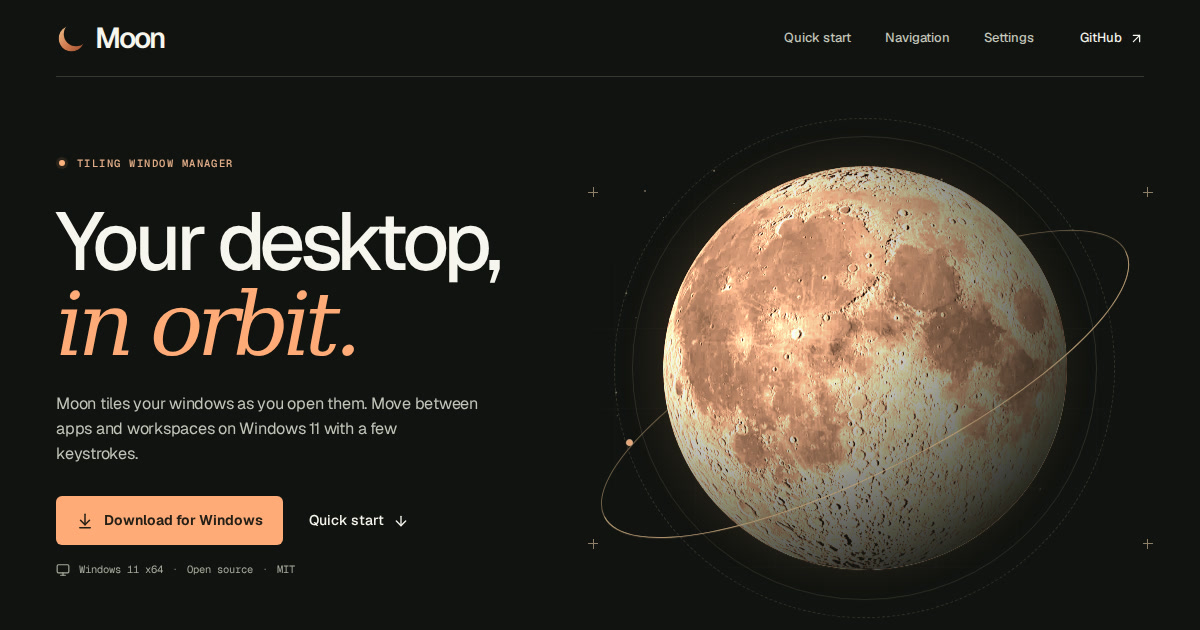
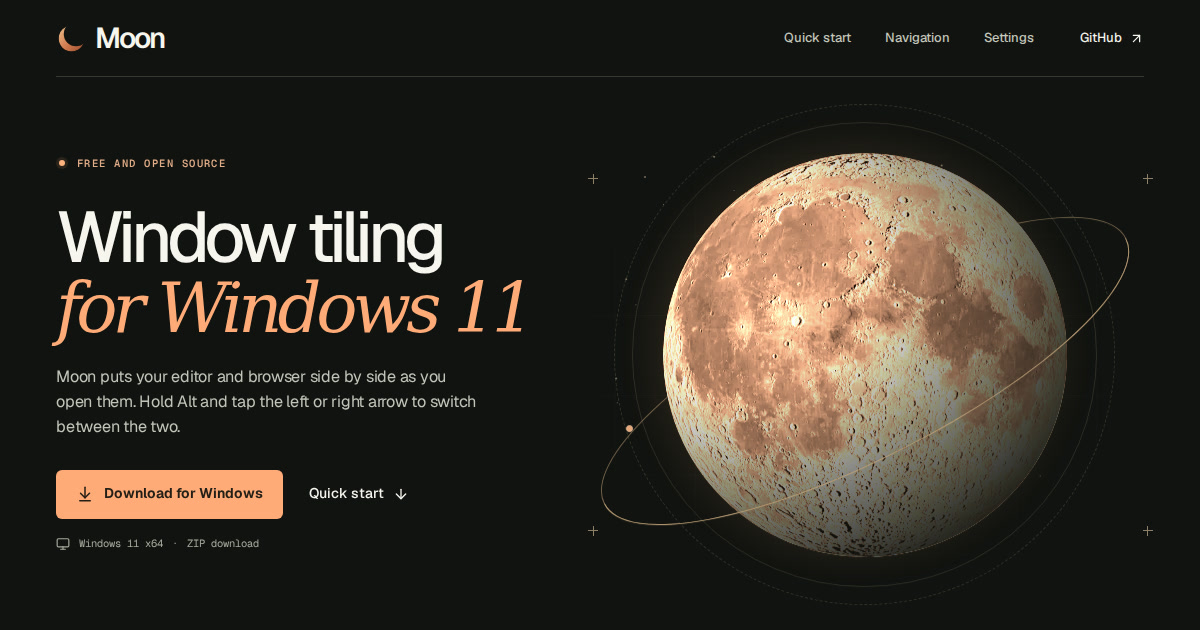
Explain Moon in the language of an everyday Windows desktop (#2)

diff --git a/apps/website/app/page.tsx b/apps/website/app/page.tsx
@@ -39,8 +39,7 @@ const screens = [
     name: "Overview",
     file: "/screens/overview.webp",
     icon: LayoutGrid,
-    description:
-      "Find an open window across workspaces and bring it into focus.",
+    description: "Pick a window from the list to jump to its workspace.",
     alt: "Moon Overview showing Code and Arc on workspace 1 and another Code window on workspace 2.",
   },
   {
@@ -48,7 +47,7 @@ const screens = [
     file: "/screens/shortcuts.webp",
     icon: Keyboard,
     description:
-      "Click the crescent in the bar to see your current key bindings.",
+      "Click the crescent at the top of your screen to look up a shortcut.",
     alt: "Moon Shortcuts filtered to focus commands, showing their Alt key combinations.",
   },
   {
@@ -56,7 +55,7 @@ const screens = [
     file: "/screens/appearance.webp",
     icon: Palette,
     description:
-      "Set your gaps, border colors, and theme. Preview them as you go.",
+      "Choose a theme or try a different border colour. Click Save changes when the preview looks right.",
     alt: "Moon Appearance with a live border preview and Light, Dark, and System theme options.",
   },
 ];
@@ -88,16 +87,16 @@ export default function Home() {
             <div className="hero-copy">
               <p className="eyebrow hero-eyebrow">
                 <span className="status-light" />
-                Tiling window manager
+                Free and open source
               </p>
               <h1 id="hero-title">
-                Your desktop,
-                <br />
-                <em>in orbit.</em>
+                Window tiling <br />
+                <em>for Windows 11</em>
               </h1>
               <p className="hero-lead">
-                Moon tiles your windows as you open them. Move between apps and
-                workspaces on Windows 11 with a few keystrokes.
+                Moon puts your editor and browser side by side as you open them.
+                Hold Alt and tap the left or right arrow to switch between the
+                two.
               </p>
               <div className="hero-actions">
                 <DownloadLink />
@@ -106,8 +105,7 @@ export default function Home() {
                 </a>
               </div>
               <div className="platform-info">
-                <Monitor size={14} /> Windows 11 x64 <span>·</span> Open source{" "}
-                <span>·</span> MIT
+                <Monitor size={14} /> Windows 11 x64 <span>·</span> ZIP download
               </div>
             </div>
             <LunarPlate />
@@ -124,37 +122,30 @@ export default function Home() {
               <p className="eyebrow">
                 <ArrowDownToLine size={14} /> Quick start
               </p>
-              <h2 id="quick-title">Set up Moon.</h2>
+              <h2 id="quick-title">Install Moon</h2>
               <ol className="setup-steps">
                 <li>
-                  <div>
-                    <h3>Download and extract</h3>
-                    <p>
-                      Get the <a href="/download">Windows x64 ZIP</a>. In File
-                      Explorer, right-click it and choose{" "}
-                      <strong>Extract All</strong>.
-                    </p>
-                  </div>
+                  <p>
+                    Download the <a href="/download">Windows x64 ZIP</a>.
+                    Right-click it in File Explorer and choose{" "}
+                    <strong>Extract All</strong>.
+                  </p>
                 </li>
                 <li>
-                  <div>
-                    <h3>Run the installer</h3>
-                    <p>
-                      Double-click <strong>Install Moon.cmd</strong> in the
-                      extracted folder. Choose <strong>Install Moon</strong> and
-                      approve the Windows prompt.
-                    </p>
-                  </div>
+                  <p>
+                    In the extracted folder, double-click{" "}
+                    <strong>Install Moon.cmd</strong>. Choose{" "}
+                    <strong>Install Moon</strong> and approve the Windows
+                    prompt.
+                  </p>
                 </li>
                 <li>
-                  <div>
-                    <h3>Open two windows</h3>
-                    <p>
-                      Choose <strong>Open Settings</strong>. If prompted,
-                      install WebView2 and return to setup. Open two app windows
-                      on the same workspace to see Moon tile them.
-                    </p>
-                  </div>
+                  <p>
+                    If setup offers <strong>Get WebView2</strong>, install the
+                    runtime and return to setup. Choose{" "}
+                    <strong>Open Settings</strong>, then open two app windows on
+                    the same workspace to try tiling.
+                  </p>
                 </li>
               </ol>
               <a className="text-link" href={`${docs}/installation.md`}>
@@ -169,7 +160,7 @@ export default function Home() {
                   file="/screens/install.webp"
                   width={775}
                   height={600}
-                  alt="Moon setup for Windows, with Install Moon selected and a description of what happens next."
+                  alt="The Windows installer with the Install Moon button in the lower right."
                 />
               </div>
             </div>
@@ -186,15 +177,15 @@ export default function Home() {
               <p className="eyebrow">
                 <Keyboard size={15} /> Navigation
               </p>
-              <h2 id="navigation-title">Try the controls.</h2>
+              <h2 id="navigation-title">Getting around</h2>
               <p className="section-lead">
-                Focus a neighbor, move a tile, or switch workspaces. Try each
-                shortcut in the demo.
+                The orange border shows which window gets your keystrokes. Click
+                a shortcut in the demo to see what changes.
               </p>
               <div className="shortcut-notes">
                 <div>
                   <span>
-                    <ScanSearch size={16} /> Find any window
+                    <ScanSearch size={16} /> Find a window
                   </span>
                   <span>
                     <kbd>Ctrl</kbd> <kbd>Alt</kbd> <kbd>Space</kbd>
@@ -212,7 +203,7 @@ export default function Home() {
               <details className="exit-note">
                 <summary>How do I stop Moon?</summary>
                 <p>
-                  Press <strong>Ctrl + Alt + Shift + F12</strong> to stop Moon
+                  Press <strong>Ctrl + Alt + Shift + F12</strong> to close Moon
                   and restore your windows.
                 </p>
               </details>
@@ -229,10 +220,10 @@ export default function Home() {
           <div className="wrap">
             <div className="settings-heading">
               <div>
-                <p className="eyebrow">
-                  <LayoutGrid size={14} /> Settings
+                <h2 id="settings-title">Moon Settings</h2>
+                <p className="settings-intro">
+                  Search for Moon in Start to reopen Settings.
                 </p>
-                <h2 id="settings-title">Inside Moon.</h2>
               </div>
               <a className="text-link" href={`${docs}/config-reference.md`}>
                 Configuration reference <ArrowUpRight size={16} />

diff --git a/apps/website/app/globals.css b/apps/website/app/globals.css
@@ -186,7 +186,7 @@ footer .home-link:hover {
   margin: 0 3px;
 }
 h1 {
-  font-size: clamp(66px, 6.8vw, 105px);
+  font-size: clamp(58px, 5.95vw, 90px);
   line-height: 0.98;
   letter-spacing: -0.069em;
   font-weight: 475;
@@ -194,7 +194,7 @@ h1 {
 }
 h1 em {
   font-family: Georgia, "Times New Roman", serif;
-  font-size: 1.085em;
+  font-size: 0.96em;
   font-weight: 400;
   letter-spacing: -0.073em;
   color: var(--copper);
@@ -501,7 +501,7 @@ h3 {
   line-height: 1.55;
 }
 .setup-steps p {
-  margin-top: 3px;
+  font-size: 16px;
 }
 .setup-steps p a {
   text-decoration: underline;
@@ -660,6 +660,10 @@ h3 {
   align-items: end;
   justify-content: space-between;
   gap: 20px;
+}
+.settings-intro {
+  color: var(--muted);
+  margin-top: 12px;
 }
 .screen-gallery {
   display: grid;
@@ -839,7 +843,7 @@ footer .wordmark img {
     gap: 20px;
   }
   h1 {
-    font-size: clamp(60px, 8vw, 74px);
+    font-size: clamp(46px, 6.5vw, 62px);
   }
   .hero-inner {
     grid-template-columns: 1.08fr 0.92fr;
@@ -955,7 +959,7 @@ footer .wordmark img {
     font-size: 10px;
   }
   h1 {
-    font-size: clamp(57px, 13.5vw, 77px);
+    font-size: clamp(44px, 11.5vw, 64px);
     margin-block: 17px 15px;
   }
   .hero-lead {

diff --git a/apps/website/components/workspace-demo.tsx b/apps/website/components/workspace-demo.tsx
@@ -10,17 +10,19 @@ const lessons = [
   {
     id: "focus",
     title: "Focus",
-    detail: "Follow the terracotta border to the neighboring window.",
+    detail:
+      "Follow the border from one window to the other. Both windows stay where they are.",
   },
   {
     id: "move",
     title: "Move",
-    detail: "Swap the focused window with its neighbor.",
+    detail: "The two windows trade places. You keep typing in the same one.",
   },
   {
     id: "switch",
     title: "Switch",
-    detail: "Visit the other workspace. Your windows stay in place.",
+    detail:
+      "Hold Alt and press a workspace number. On your desktop, you can also click its number in Moon’s top bar.",
   },
 ] as const;
 
@@ -110,8 +112,7 @@ function TileContent({ id }: { id: WindowId }) {
           </div>
           <div className="md-writing">
             <strong>Field notes</strong>
-            <p>Check the crater rim.</p>
-            <p>Compare the shadows.</p>
+            <p>Look for the shadow along the crater rim.</p>
             <span className="md-caret" />
           </div>
         </div>

diff --git a/apps/website/app/layout.tsx b/apps/website/app/layout.tsx
@@ -5,7 +5,7 @@ import "./globals.css";
 
 const title = "Moon — Tiling window manager for Windows 11";
 const description =
-  "Give every window a place. Download Moon for Windows 11, try the keyboard controls, and set up your first tiled workspace.";
+  "Moon arranges your windows as you open apps on Windows 11. Download the x64 ZIP or try the keyboard shortcuts in your browser.";
 
 export const metadata: Metadata = {
   metadataBase: new URL("https://moon.hongy.dev"),

diff --git a/apps/website/components/workspace-demo.css b/apps/website/components/workspace-demo.css
@@ -276,6 +276,9 @@
   color: #d9d6ce;
   font: inherit;
 }
+.moon-demo [data-focused="false"] .md-caret {
+  visibility: hidden;
+}
 .moon-demo .md-caret {
   display: block;
   width: 1px;
